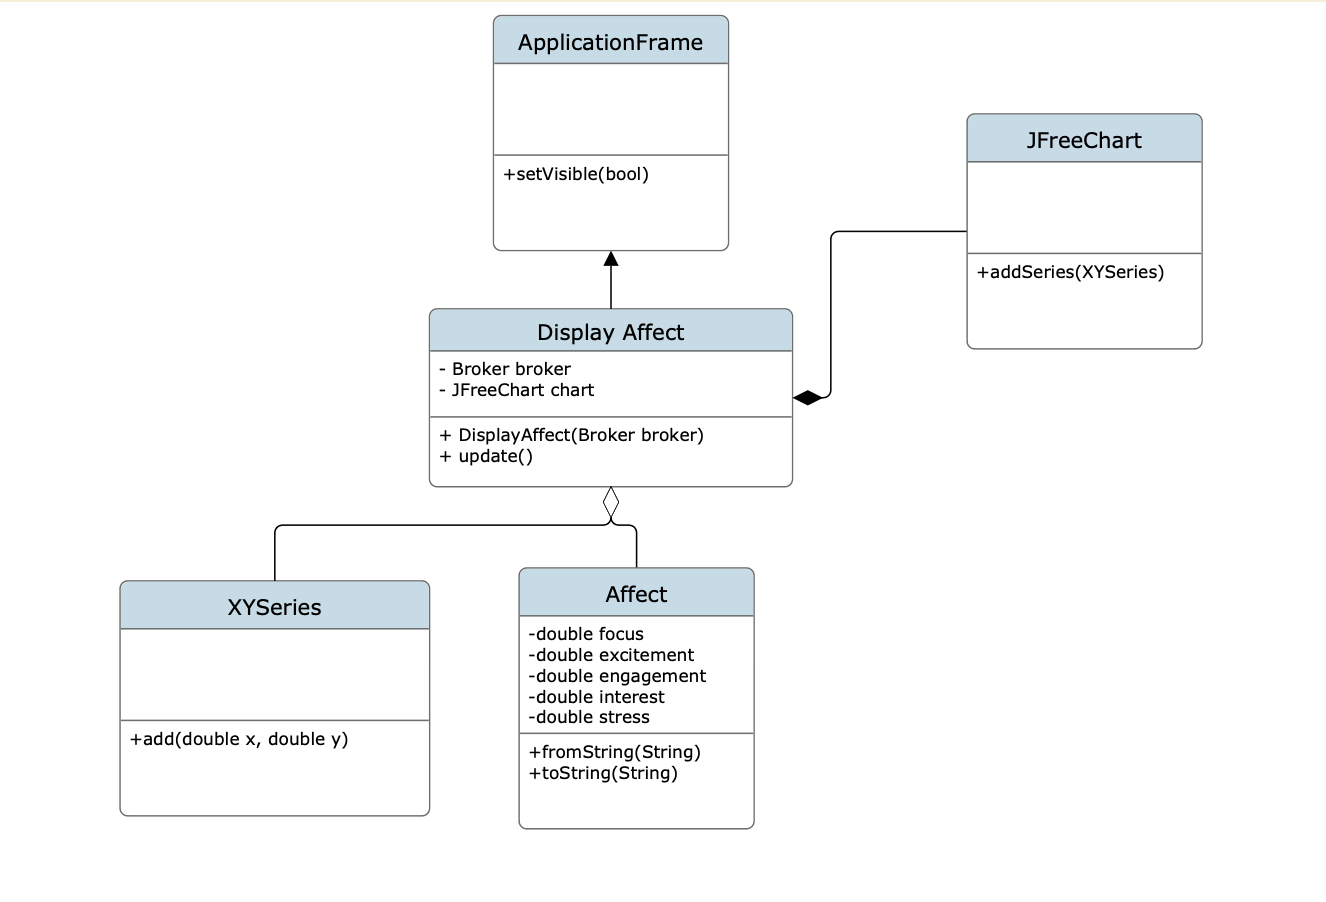
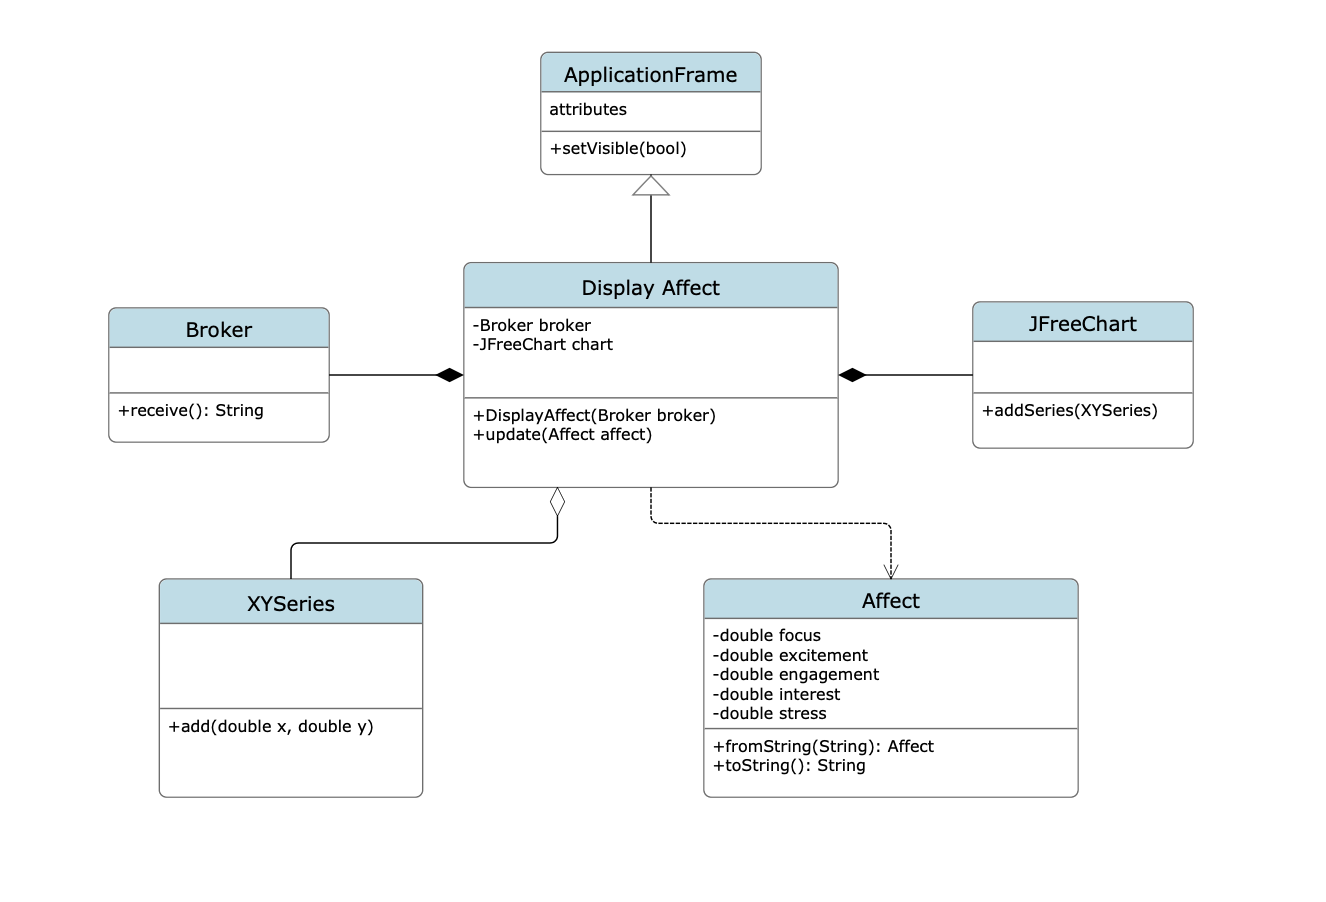
update UML Diagram and `README.md`

diff --git a/docs/40-display-affect/README.md b/docs/40-display-affect/README.md
@@ -1,8 +1,6 @@
 The `DisplayAffect` class is a child of `ApplicationFrame`, and creates a
-`JFreeChart` with a plot to display `Affect`s. The `update` method on the
-`DisplayAffect` class receives a new message from the `Broker` and then has the
-`Affect` class parse the `String` into an `Affect` which is then displayed in a
-line chart.
+`JFreeChart` with a plot to display `Affect`s. The `update` method of
+`DisplayAffect` takes a new `Affect` to append to the plot.
 
 The `Affect` class simply has fields for each of the elements of an affect and
 getters for those fields.
@@ -10,8 +8,9 @@ getters for those fields.
 Incoming data is received as `String`s from the `Broker` class and then parsed
 by the `Affect` class.
 
-The `Broker`'s `receive` method is called within `update` of `DisplayAffect` and
-the received `String` then parsed, which is how data is updated on the graph.
+The `Broker`'s `receive` method can be called and the output given to
+`Affect.fromString` and the created affect given to `update` of `DisplayAffect`,
+which is how data is updated on the graph.
 
 To test first run the `TestDisplayAffect` program, then run `DisplayAffect`. My
 system was already using port 5000 so for testing I changed to port to 5100, but
